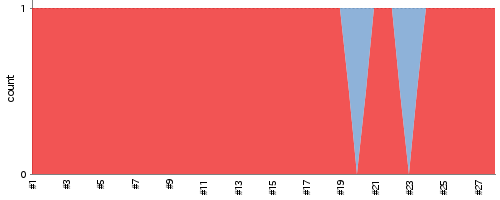
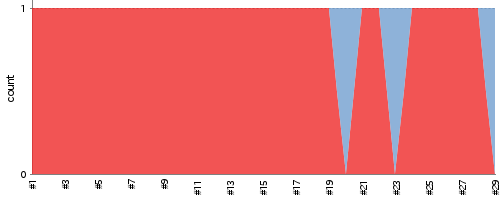
update report

diff --git a/drcutil/index.md b/drcutil/index.md
@@ -7,13 +7,13 @@ layout: default
 ___
 * Status
   
-![Jenkins Icon](http://jenkinshrg.github.io/images/48x48/yellow.png)
-UNSTABLE
+![Jenkins Icon](http://jenkinshrg.github.io/images/48x48/blue.png)
+SUCCESS
   
 * Stability
   
 ![Jenkins Icon](http://jenkinshrg.github.io/images/48x48/health-00to19.png)
-7%
+10%
   
 ### Build Trend
 ___
@@ -35,6 +35,7 @@ ___
   
 |Status|Time|Duration|Changes|Build|Test|Note|
 |---|---|---|---|---|---|---|
+|![Jenkins Icon](http://jenkinshrg.github.io/images/24x24/blue.png)SUCCESS|2015/07/07 20:00|28 min.||[BUILD](https://drive.google.com/file/d/0B54sHwaxmuM4Zm1ydDRvQzdEdzQ/view?usp=drivesdk) |[CONSOLE](https://drive.google.com/file/d/0B54sHwaxmuM4NERZWDd4c05LRnM/view?usp=drivesdk) [IMAGE](https://drive.google.com/file/d/0B54sHwaxmuM4Q0xGRjBkZldLeXM/edit?usp=drivesdk) [VIDEO](https://drive.google.com/file/d/0B54sHwaxmuM4clNpNzl4bndkVkk/edit?usp=drivesdk) | |
 |![Jenkins Icon](http://jenkinshrg.github.io/images/24x24/yellow.png)UNSTABLE|2015/07/07 19:00|28 min.|[CHANGES](https://drive.google.com/file/d/0B54sHwaxmuM4ZzVFX3BpbWh6eTQ/view?usp=drivesdk) |[BUILD](https://drive.google.com/file/d/0B54sHwaxmuM4aDlIeWhBeGhYX3c/view?usp=drivesdk) |[CONSOLE](https://drive.google.com/file/d/0B54sHwaxmuM4YTI0LWxsM0VZYlU/view?usp=drivesdk) [IMAGE](https://drive.google.com/file/d/0B54sHwaxmuM4TzlmczVFQmxVb1U/edit?usp=drivesdk) [VIDEO](https://drive.google.com/file/d/0B54sHwaxmuM4Vk1mYWpaVmc0Rjg/edit?usp=drivesdk) |STOP NORMAL|
 |![Jenkins Icon](http://jenkinshrg.github.io/images/24x24/yellow.png)UNSTABLE|2015/07/07 18:00|28 min.|[CHANGES](https://drive.google.com/file/d/0B54sHwaxmuM4Yk9oeGxNTXhMWHM/view?usp=drivesdk) |[BUILD](https://drive.google.com/file/d/0B54sHwaxmuM4bDZLNE5lazc4WFE/view?usp=drivesdk) |[CONSOLE](https://drive.google.com/file/d/0B54sHwaxmuM4T3VrOHdmTzI0Y00/view?usp=drivesdk) [IMAGE](https://drive.google.com/file/d/0B54sHwaxmuM4eHk3dnpyU2F4aEk/edit?usp=drivesdk) [VIDEO](https://drive.google.com/file/d/0B54sHwaxmuM4SjhfdHNncWxoQU0/edit?usp=drivesdk) |STOP NORMAL|
 |![Jenkins Icon](http://jenkinshrg.github.io/images/24x24/yellow.png)UNSTABLE|2015/07/07 17:00|28 min.||[BUILD](https://drive.google.com/file/d/0B54sHwaxmuM4d20zYjBmRWRUY0E/view?usp=drivesdk) |[CONSOLE](https://drive.google.com/file/d/0B54sHwaxmuM4WmRianRXa1ppTUU/view?usp=drivesdk) [IMAGE](https://drive.google.com/file/d/0B54sHwaxmuM4UFI3ZGpRaXBvS1U/edit?usp=drivesdk) [VIDEO](https://drive.google.com/file/d/0B54sHwaxmuM4MkRvQmtZSkR3QUE/edit?usp=drivesdk) |STOP RED|

diff --git a/index.md b/index.md
@@ -2,7 +2,7 @@
 layout: default
 ---
 # Jenkins CI report For HRG
-## Build and test report (2015/07/07 19:28:18)
+## Build and test report (2015/07/07 20:28:08)
 ### Build Status
 ___
   
